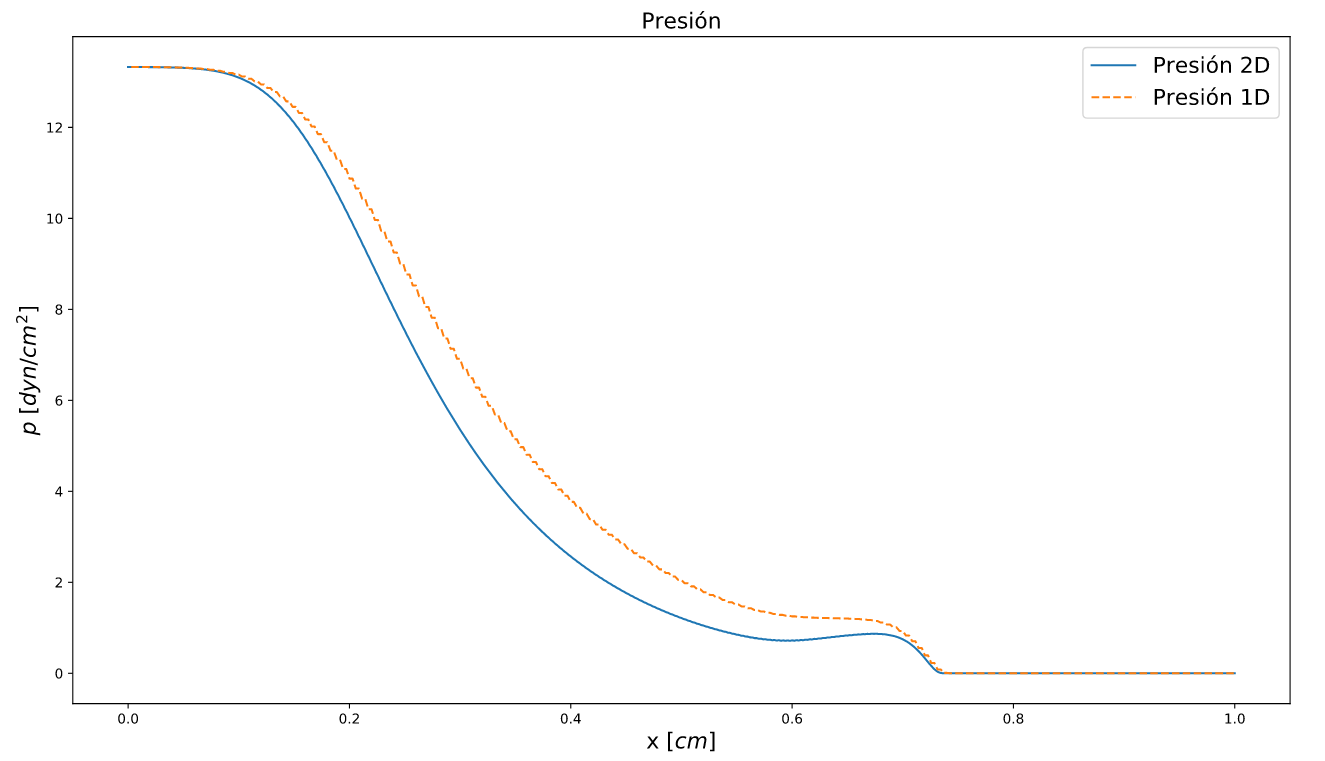
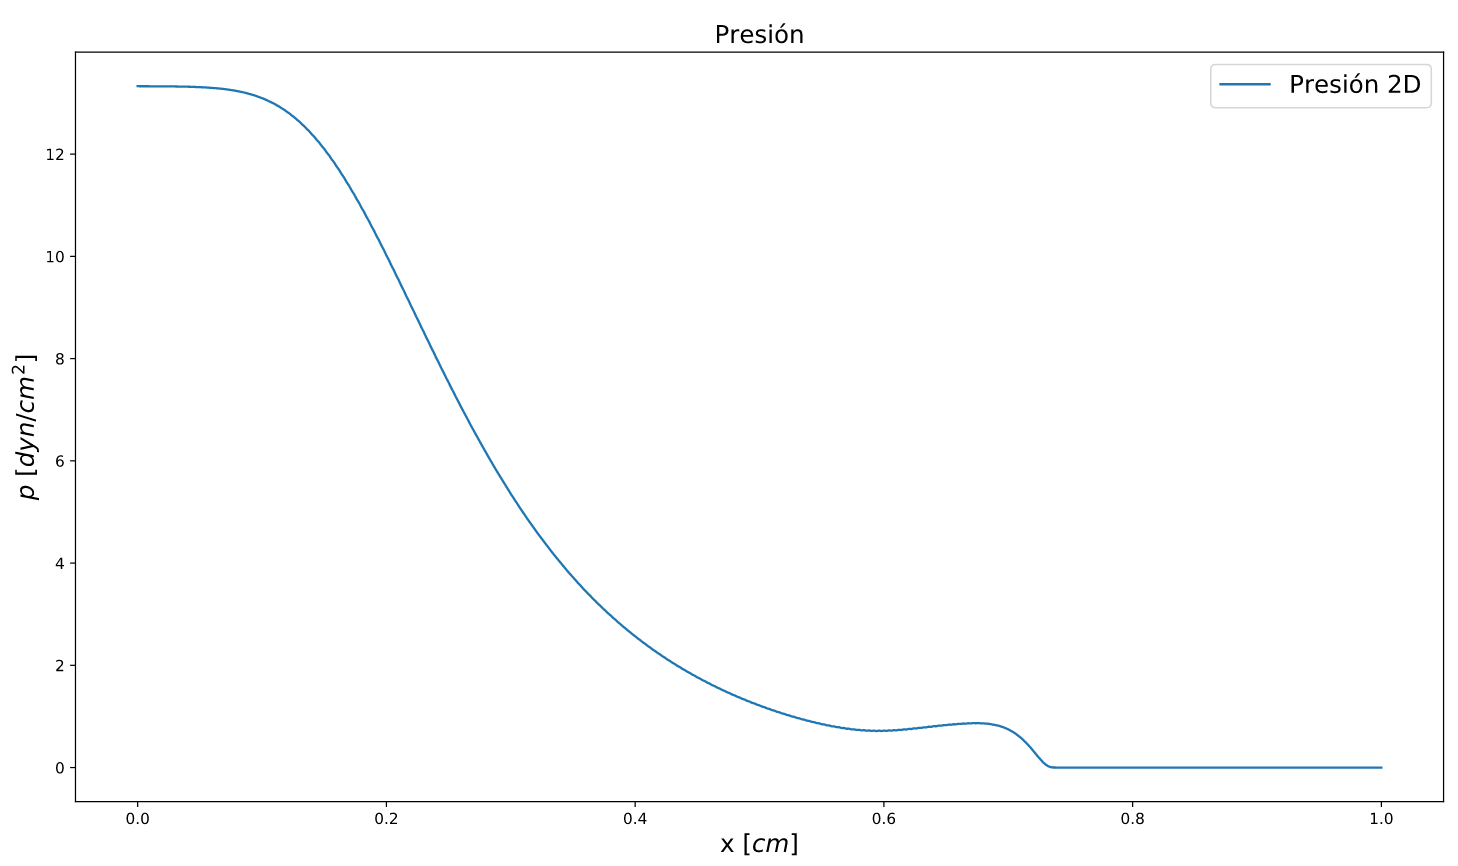
discusion de las pruebas bidimensionales

diff --git a/main.tex b/main.tex
@@ -2153,6 +2153,10 @@ A partir de resoluciones mayores a 1000 los resultados se apegan mucho a la solu
 Por lo tanto podemos concluir que nuestro módulo HLL se ajusta perfectamente para el problema de 
 Riemann relativista con resoluciones $\geq 500$ píxeles.
 
+% ===============================================================================================
+% ===============================================================================================
+
+
 \section{Pruebas bidimensionales}
 Ya que hemos visto el código funcionar correctamente para pruebas en una dimensión ahora nos toca ver
 como funciona en 2 dimensiones. Se hará una prueba de una onda de choque en 2 dimensiones, los valores
@@ -2164,7 +2168,7 @@ que tendrá están en el cuadro \ref{Cuadro_parametros_choque_2D}.
   \hline 
   \textbf{Caso} & \textbf{$p_i$} [$\text{dyn}/\text{cm}^2$] & 
   \textbf{$p_o$} [$\text{dyn}/\text{cm}^2$] & 
-  \textbf{$vx_i$}/c & \textbf{$vx_o$}/c  & \textbf{$vy_i$}/c & \textbf{$vy_o$}/c  & 
+  \textbf{$v_{xi}$}/c & \textbf{$v_{xo}$}/c  & \textbf{$vy_i$}/c & \textbf{$vy_o$}/c  & 
   \textbf{$\rho_i$} [$\text{g}/\text{cm}^3$]& 
   \textbf{$\rho_o$} [$\text{g}/\text{cm}^3$]\\ 
   \hline 
@@ -2173,8 +2177,8 @@ que tendrá están en el cuadro \ref{Cuadro_parametros_choque_2D}.
   \end{tabular}
   \caption{\label{Cuadro_parametros_choque_2D} Valores iniciales 
   de la presión ($p$), velocidad ($v$)
-  y densidad ($\rho$), del lado interno ($p_i, vx_i, vy_i, \rho_i$) y 
-  externo ($p_o, vx_o, vy_o, \rho_o$) de la onda de choque
+  y densidad ($\rho$), del lado interno ($p_i, v_{x_{i}}, vy_i, \rho_i$) y 
+  externo ($p_o, v_{xo}, v_{yo}, \rho_o$) de la onda de choque
   para los casos relativistas. Para todos los
   casos el dominio espacial será $x, y \in [0,1]\times[0,1] $, el radio de la onda
   será $r = 0.5 \text{cm}$ y un índice adiabático $\Gamma = 4/3$}
@@ -2189,81 +2193,92 @@ perfiles de la onda.
 
 \begin{figure}
   \centering
-    \includegraphics[width=0.5\textwidth]{./Figuras/verificacion_del_codigo/pruebas_2D/Example.png}
-  \caption{Las flechas indican los perfiles de densidad, velocidad y presión se 
+    \includegraphics[width=0.8\textwidth]{./Figuras/verificacion_del_codigo/pruebas_2D/Example}
+  \caption{Las lineas indican los perfiles de densidad, velocidad y presión que se 
   tomaran de los radios que son 
   paralelos al eje x (0°), perpendiculares (90°) y a 45° y se compararán con las pruebas en 
   1 dimensión.}\label{Example_blast_wave}
 \end{figure}
 
-En la Figura \ref{fig:comparacion_perfil_0} muestra la comparación entre la prueba unidimensional
-y la prueba bidimensional, la cual usa el perfil radial que es paralelo al eje x (0°).
-El panel de arriba a la izquierda muestra la densidad, el de arriba a la derecha, la velocidad y 
-el de abajo la presión.
-La densidad y presión, para ambas pruebas, mantienen sus valores de 
-$\rho = 10 \,  \text{g}/ \text{cm}^3$ y $p = 13.33 \,  \text{dyn}/ \text{cm}^2 $ 
-luego, bajan sus valores en $x \approx 0.25$
-mientras que la velocidad , la cual es nula,
-asciende. En el punto $x \approx 0.68$ cm la presión alcanza 
-$p \approx 2.0\,  \text{dyn}/ \text{cm}^2 $ y la densidad
-$\rho \approx 2.0 \,  \text{g}/ \text{cm}^3$, mientras que la velocidad sube a $v \approx 0.75c$
-en una dimensión. En 2 dimensiones la densidad baja hasta  $\rho \approx 1.0 \,  \text{g}/ \text{cm}^3$ y
-la presión $p \approx 1.8\,  \text{dyn}/ \text{cm}^2 $ mientras que la velocidad en $x \approx 0.68$ cm
-sube a $v \approx 0.8c$ y baja a $v \approx 0.7c$ en $x \approx 0.68$ cm
-
-
-La densidad en 1D como en 2D vuelve a subir
-en $x \approx 0.69$ cm y llega a $\rho \approx 5 \,  \text{g}/ \text{cm}^3$ y 
-se mantiene así hasta el punto $x \approx 0.7$ cm 
-donde la densidad, así como la velocidad y presión descienden sus valores a nulos.
+En la Figura \ref{fig:head_map} muestra como evoluciona la onda usando un mapa de calor que muestra la
+densidad. En el panel de arriba a la izquierda muestra el estado inicial al tiempo $t = 0$s, el panel
+de arriba a la derecha muestra su estado al tiempo $t = 0.2$s y el panel de abajo muestra su estado para
+el tiempo $t = 0.4$ s.
 
 
 \begin{figure}
   \centering
-      \subfigure{\includegraphics[scale = 0.17]{./Figuras/verificacion_del_codigo/pruebas_2D/0/densidad.png}}
-      \subfigure{\includegraphics[scale = 0.17]{./Figuras/verificacion_del_codigo/pruebas_2D/0/velocidad.png}}
-      \subfigure{\includegraphics[scale = 0.17]{./Figuras/verificacion_del_codigo/pruebas_2D/0/presion.png}}
-    \caption{La figura muestra la comparación que hay entre la prueba unidimensional 
-    (lineal roja punteada) y la prueba 
-    bidimensional (lineal azul sólida), la cual usa el perfil radial que es paralelo al eje x (0°). El panel de arriba a la 
-    izquierda muestra la densidad, el de arriba a la derecha la velocidad y el de abajo la presión
-    Ambas pruebas se usaron tomando en cuenta los valores del Cuadro \ref{Cuadro_parametros_choque_2D}
-    y al tiempo $t = 0.4$ s}
-    \label{fig:comparacion_perfil_0}
+      \subfigure{\includegraphics[scale = 0.16]{./Figuras/verificacion_del_codigo/pruebas_2D/head_map/00.png}}
+      \subfigure{\includegraphics[scale = 0.16]{./Figuras/verificacion_del_codigo/pruebas_2D/head_map/20.png}}
+      \subfigure{\includegraphics[scale = 0.16]{./Figuras/verificacion_del_codigo/pruebas_2D/head_map/40.png}}
+    \caption{Explosión de la onda de choque en 2 dimensiones usando un mapa de calor donde muestra
+    la evolución de la densidad. El panel de arriba a la izquierda muestra el tiempo inicial $t=0$ s,
+    el de arriba a la derecha  al $t = 0.2$ s y el de abajo al tiempo $t = 0.4$ s. \label{fig:head_map}}
 \end{figure}
-En la Figura \ref{fig:comparacion_perfil_90} se compara los perfiles radiales que son ortogonales al
-eje x, basicamente esta Figura viene siendo lo mismo que la Figura \ref{fig:comparacion_perfil_0}.
-El panel de arriba a la izquierda muestra la densidad, el de arriba a la derecha, la velocidad y 
-el de abajo la presión.
-La densidad y presión, para ambas pruebas, mantienen sus valores de 
-$\rho = 10 \,  \text{g}/ \text{cm}^3$ y $p = 13.33 \,  \text{dyn}/ \text{cm}^2 $ 
-luego, bajan sus valores en $x \approx 0.25$
-mientras que la velocidad , la cual es nula,
-asciende. En el punto $x \approx 0.68$ cm la presión alcanza 
-$p \approx 2.0\,  \text{dyn}/ \text{cm}^2 $ y la densidad
-$\rho \approx 2.0 \,  \text{g}/ \text{cm}^3$, mientras que la velocidad sube a $v \approx 0.75c$
-en una dimensión. En 2 dimensiones la densidad baja hasta  $\rho \approx 1.0 \,  \text{g}/ \text{cm}^3$ y
-la presión $p \approx 1.8\,  \text{dyn}/ \text{cm}^2 $ mientras que la velocidad en $x \approx 0.68$ cm
-sube a $v \approx 0.8c$ y baja a $v \approx 0.7c$ en $x \approx 0.68$ cm
 
+Antes de compararlo con el perfil unidimensional, primero se comparará entre si mísmo. Es decir, se
+compararán los perfiles radiales tomados a 0°, 45°, 90°. En la Figura \ref{fig:comparacion_perfil_velocidad}
+el perfil de la densidad. Elpanel de arriba a la izquierda muestra a 0°, el de arriba a la derecha
+a 90° y el de abajo muestra a 45°.
 
-La densidad en 1D como en 2D vuelve a subir
-en $x \approx 0.69$ cm y llega a $\rho \approx 5 \,  \text{g}/ \text{cm}^3$ y 
-se mantiene así hasta el punto $x \approx 0.7$ cm 
-donde la densidad, así como la velocidad y presión descienden sus valores a nulos.
+En la Figura, para los 3 perfiles radiales, muestran una densidad $\rho \approx 10$ en $x \approx 0.2$
+donde comienza a disminuir hasta $\rho \approx 1.5$ en $x \approx 0.6$. Después comienza a subir hasta 
+$\rho \approx 5$ para los perfiles de 90 y 0, mientras que para el de 45 sube hasta 5.5 en el punto
+$x \approx 0.7$. Después vuelve a disminuir a $\rho \approx 0$ en el punto $x \approx 0.8$ para los 
+3 perfiles radiales
 
 
 \begin{figure}
   \centering
+      \subfigure{\includegraphics[scale = 0.16]{./Figuras/verificacion_del_codigo/pruebas_2D/0/densidad.png}}
       \subfigure{\includegraphics[scale = 0.16]{./Figuras/verificacion_del_codigo/pruebas_2D/90/densidad.png}}
-      \subfigure{\includegraphics[scale = 0.16]{./Figuras/verificacion_del_codigo/pruebas_2D/90/velocidad.png}}
-      \subfigure{\includegraphics[scale = 0.16]{./Figuras/verificacion_del_codigo/pruebas_2D/90/presion.png}}
-    \caption{Igual que la Figura \ref{fig:comparacion_perfil_0}, solo que se tomó un perfil radial
-    ortogonal al eje x (90°).}\label{fig:comparacion_perfil_90}
+      \subfigure{\includegraphics[scale = 0.16]{./Figuras/verificacion_del_codigo/pruebas_2D/45/densidad.png}}
+    \caption{La figura muestra la comparación que hay entre los distintos perfiles de
+    densidad al tiempo $t = 0.4$ s. El panel de arriba a la izquierda muestra el perfil a 0°, el de
+    arriba a la derecha muestra a 90° y el panel de abajo muestra a 45°}
+    \label{fig:comparacion_perfil_densidad}
 \end{figure}
-En la Figura \ref{fig:comparacion_perfil_45} se compara los perfiles radiales que 
-estan inclinados 45° respecto al
-eje x
+
+Para el perfil de la velocidad (ver Figura \ref{fig:comparacion_perfil_velocidad}), 
+en $x \approx 0.2$ la velocidad empieza a incrementar desde el reposo
+$v = 0$ hasta $v \approx 0.7$ en $x \approx 0.6$, esto aplica para los 3 perfiles de velocidad. Después
+va decreciendo hasta $v \approx 0.62$ en $x \approx 0.75$ para los perfiles de 0 y 90, mientras que para 
+el perfil de 45 lo hace en $x \approx 0.73$. A partir de este punto la velocidad vuelve a cero.
+
+\begin{figure}
+  \centering
+      \subfigure{\includegraphics[scale = 0.16]{./Figuras/verificacion_del_codigo/pruebas_2D/0/velocidad.png}}
+      \subfigure{\includegraphics[scale = 0.16]{./Figuras/verificacion_del_codigo/pruebas_2D/90/velocidad.png}}
+      \subfigure{\includegraphics[scale = 0.16]{./Figuras/verificacion_del_codigo/pruebas_2D/45/velocidad.png}}
+    \caption{Igual que la Figura \ref{fig:comparacion_perfil_densidad}, solo que se tomó el perfil de
+    la velocidad.}\label{fig:comparacion_perfil_velocidad}
+\end{figure}
+
+
+El la figura \ref{fig:comparacion_perfil_presion} muestra el perfil de la presión, donde los paneles 
+vienen ordenados de igual manera que el perfil de densidad y velocidad. Para el punto $x \approx 0.18$
+la presión comienza a disminuir de $p = 13.33$ hasta $p \approx 1 $ en $x \approx 0.7$ para los 
+3 perfiles. En $x \approx 0.71 $ vuelve a disminuir a $p = 0$ en $x \approx 0.74 $ para los perfiles de 
+0 y 90, mientras que para el perfil de 45 lo hace en $x \approx 0.73 $.
+
+
+\begin{figure}
+  \centering
+      \subfigure{\includegraphics[scale = 0.16]{./Figuras/verificacion_del_codigo/pruebas_2D/0/presion.png}}
+      \subfigure{\includegraphics[scale = 0.16]{./Figuras/verificacion_del_codigo/pruebas_2D/90/presion.png}}
+      \subfigure{\includegraphics[scale = 0.16]{./Figuras/verificacion_del_codigo/pruebas_2D/45/presion.png}}
+    \caption{Igual que la Figura \ref{fig:comparacion_perfil_densidad}, solo que se tomó el perfil de
+    la presión.}\label{fig:comparacion_perfil_presion}
+\end{figure}
+
+
+
+
+
+En la Figura \ref{fig:comparacion_perfil_mean} muestra la comparación entre la prueba unidimensional
+y la prueba bidimensional, que es la media de los 3 perfiles radiales que se tomarón.
+El panel de arriba a la izquierda muestra la densidad, el de arriba a la derecha, la velocidad y 
+el de abajo la presión.
 La densidad y presión, para ambas pruebas, mantienen sus valores de 
 $\rho = 10 \,  \text{g}/ \text{cm}^3$ y $p = 13.33 \,  \text{dyn}/ \text{cm}^2 $ 
 luego, bajan sus valores en $x \approx 0.25$
@@ -2276,93 +2291,26 @@ la presión $p \approx 1.8\,  \text{dyn}/ \text{cm}^2 $ mientras que la velocida
 sube a $v \approx 0.8c$ y baja a $v \approx 0.7c$ en $x \approx 0.68$ cm
 
 
-La densidad en 1D  vuelve a subir
-en $x \approx 0.69$ cm y llega a $\rho \approx 5 \,  \text{g}/ \text{cm}^3$,
-mientras que en 2D, llega a $\rho \approx 5 \,  \text{g}/ \text{cm}^3$ y 
-se mantiene así hasta el punto $x \approx 0.7$ cm 
-donde la densidad, así como la velocidad y presión descienden sus valores a nulos.
 \begin{figure}
   \centering
-      \subfigure{\includegraphics[scale = 0.16]{./Figuras/verificacion_del_codigo/pruebas_2D/45/densidad.png}}
-      \subfigure{\includegraphics[scale = 0.16]{./Figuras/verificacion_del_codigo/pruebas_2D/45/velocidad.png}}
-      \subfigure{\includegraphics[scale = 0.16]{./Figuras/verificacion_del_codigo/pruebas_2D/45/presion.png}}
-    \caption{Igual que la Figura \ref{fig:comparacion_perfil_0}, solo que se tomó un perfil radial
-    inclinado 45° sobre el eje de las x.}\label{fig:comparacion_perfil_45}
+      \subfigure{\includegraphics[scale = 0.16]{./Figuras/verificacion_del_codigo/pruebas_2D/mean/densidad.png}}
+      \subfigure{\includegraphics[scale = 0.16]{./Figuras/verificacion_del_codigo/pruebas_2D/mean/velocidad.png}}
+      \subfigure{\includegraphics[scale = 0.16]{./Figuras/verificacion_del_codigo/pruebas_2D/mean/presion.png}}
+    \caption{Comparación entre la media de los 3 perfiles radiales (0, 90 y 45) y 
+    la prueba unidimensional.}\label{fig:comparacion_perfil_mean}
 \end{figure}
 
 
-% \begin{table}[htbp]
-%   \begin{center}
-%   \begin{tabular}{|c|c|c|}
-%   \hline 
-%   \textbf{Parámetro} & \textbf{Descripción} & \textbf{valor} \\ 
-%   \hline 
-%   $R_{in}$ & Radio interno de la onda expansiva & $6.17 \times 10^{18}$ [cm] \\ 
-%   \hline 
-%   $\rho_{in}$ &  Densidad interna de la onda expansiva & $3.48 \times 10^{-24}$ [$\mathrm{g} \cdot \mathrm{cm}^{-3}$] \\ 
-%   \hline 
-%   $\rho_{out}$ &  Densidad del medio  & $1.67 \, \times  \, 10^{-24}$ [$\mathrm{g} \cdot \mathrm{cm}^{-3}$] \\
-%   \hline 
-%   $P_{int}$ & Presión interna de la onda expansiva & $2.01 \times 10^{-6}$ [$ \mathrm{erg}\cdot \mathrm{cm}^{-2}$]\\ 
-%   \hline 
-%   $P_{out}$ &  Presión del medio  & $8.97 \times 10^{-10}$ [$\mathrm{erg}\cdot \mathrm{cm}^{-2}$] \\ 
-%   \hline 
-%   $v_{x_{int}}$ & Velocidad interna en el eje x de la onda expansiva & 0.0 [$\mathrm{cm}\cdot \mathrm{s}^{-1}$]\\ 
-%   \hline 
-%   $v_{y_{int}}$ & Velocidad interna en el eje y de la onda expansiva & 0.0 [$\mathrm{cm}\cdot \mathrm{s}^{-1}$]\\ 
-%   \hline 
-%   $v_{x_{out}}$ & Velocidad en el eje x del medio & 0.0 [$\mathrm{cm}\cdot \mathrm{s}^{-1}$] \\
-%   \hline 
-%   $v_{y_{out}}$ & Velocidad en el eje y del medio & 0.0 [$\mathrm{cm}\cdot \mathrm{s}^{-1}$]\\ 
-%   \hline 
-%   Co & Número de Courant & 0.7 \\ 
-%   \hline 
-%   \end{tabular}
-%   \caption{\label{Tabla_parametros_sedov}Parámetros que se utilizarán en las siguientes pruebas que se van a realizar para la onda de choque,
-%   las velocidades que alcanza la onda son velocidades no relativistas.}
-%   \end{center}
-%   \end{table}
-  
-%   % ========================================= Caso 1 ========================================================================
-%   \section{Casos newtonianos}
+La densidad en 1D como en 2D vuelve a subir
+en $x \approx 0.69$ cm y llega a $\rho \approx 5 \,  \text{g}/ \text{cm}^3$ y 
+se mantiene así hasta el punto $x \approx 0.7$ cm 
+donde la densidad, así como la velocidad y presión descienden sus valores a nulos.
 
-%   Las siguientes simulaciones presentan una onda de choque como se mostro en la sección \ref{seccion_ecuaciones_de_sedov_taylor}. La Figura 
-%   \ref{fig_velocidad_vs_radio_computacionalmente_lax_newtoniano_250} muestra la velocidad de una onda expansiva con una resolución de 250x250 píxeles
-%   con un error del 32 \% sobre el exponente. El programa paró a tiempo $t= 4.12 \times 10^{10}$ s mucho antes de lo estipulado.
+La mayor diferencia que hay entre la 1D y 2D para la densidad es del 70 \%, mientras que para la 
+velocidad es del 238 \% y la de la presión es del 79 \%.
 
-% \begin{figure}
-%   \centering
-%     \includegraphics[width=0.8\textwidth]{./Figuras/verificacion/casos/caso_1/Expansion}
-%   \caption{Velocidad del radio de expansión de una onda de choque conforme avanza el tiempo. El exponente con la que se expande la onda es 
-%   $ a = 0.8593$ con un coeficiente de relación $R^2=0.994$. 
-%   El método que se usó fue Lax no relativista.} \label{fig_velocidad_vs_radio_computacionalmente_lax_newtoniano_250}
-% \end{figure}
 
-% La Figura \ref{fig_cmap_lax_newtoniano_250} muestra la evolución de la onda de choque con una resolución de 250x250 usando el método de Lax 
-% newtoniano
 
-% \begin{figure}
-%   \centering
-%   \subfigure[$t = 0 $ s]{\includegraphics[scale = 0.36]{./Figuras/verificacion/casos/caso_1/LAX_NR_screenshot_0}}
-%   \subfigure[$t = 1.89\,\times 10^{10}$ s]{\includegraphics[scale = 0.36]{./Figuras/verificacion/casos/caso_1/LAX_NR_screenshot_20}}
-%   \subfigure[$t = 3.784 \,\times 10^{10}$ s]{\includegraphics[scale = 0.36]{./Figuras/verificacion/casos/caso_1/LAX_NR_screenshot_40}}
-%   \caption{Evolución de la onda de choque de la 
-%   Figura \ref{fig_velocidad_vs_radio_computacionalmente_lax_newtoniano_250}} \label{fig_cmap_lax_newtoniano_250}
-% \end{figure}
-
-%   % ========================================= Caso 1 ========================================================================
-% Al aumentar la resolución los exponentes tienen un menor error,  ya que para resoluciones de 500x500 y de 1000x1000, los errores son del 11 \% y
-% del 6 \% respectivamente
-
-%   % ========================================= Caso 2 ========================================================================
-
-% \begin{figure}
-%   \centering
-%     \includegraphics[width=0.8\textwidth]{./Figuras/verificacion/casos/caso_2/Expansion}
-%   \caption{Velocidad del radio de expansión de una onda de choque conforme avanza el tiempo. El exponente con la que se expande la onda es 
-%   $ a = 0.44$ con un coeficiente de relación $R^2=0.992$. 
-%   El método que se usó fue Lax no relativista.} \label{fig_velocidad_vs_radio_computacionalmente_lax_newtoniano_500}
-% \end{figure}
 
 
 
